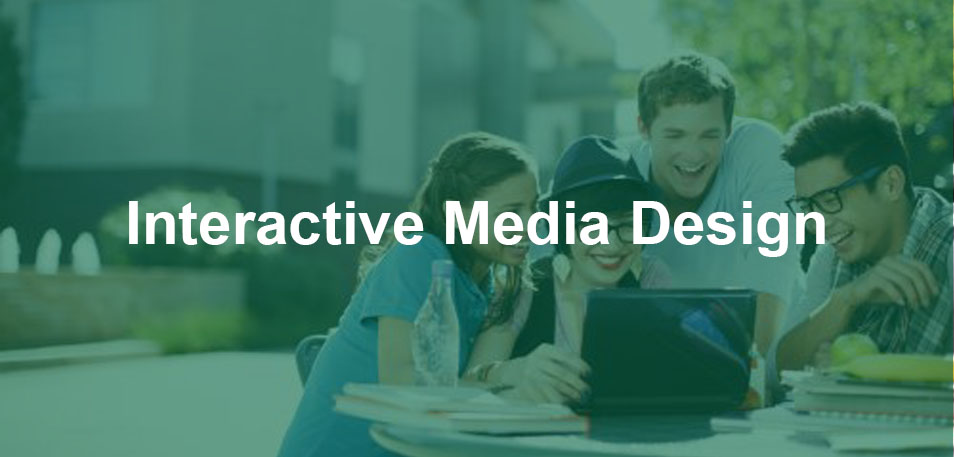
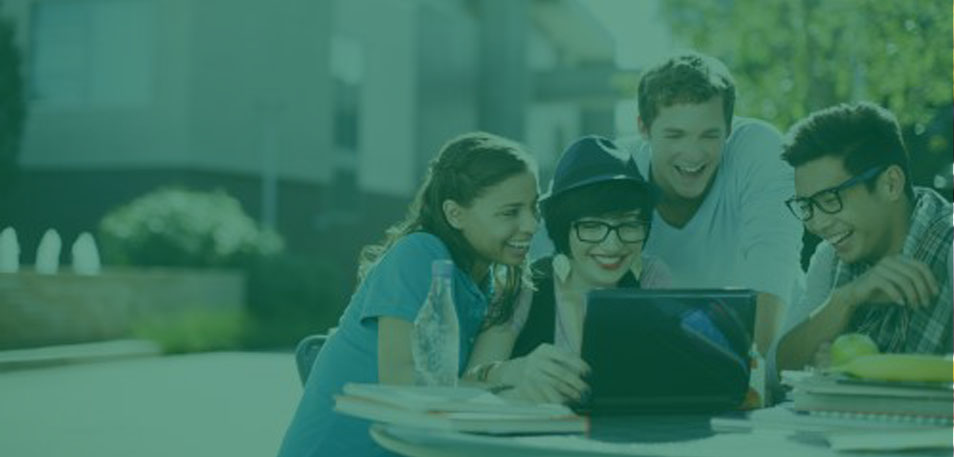
images

Changed region(s): [[0.1216, 0.4289, 0.8816, 0.5821]]

diff --git a/css/min/main.css b/css/min/main.css
@@ -1,1 +1,1 @@
-body{margin:0;padding:0}header{width:100%;margin:0}.hero-image img{width:100%;height:400px;margin:0 auto;text-align:center;overflow:visible;background-position:50%;background-size:cover;background-repeat:repeat;position:relative}.navbar{margin-bottom:0}.navbar.active{position:fixed;top:0;z-index:99;width:100%}nav{width:100%;text-align:center;background-color:#212721}nav ul{list-style-type:none;display:none;padding:0;margin:0}nav ul li{border-top:2px}nav li{margin-left:10px;margin-right:20px}nav .hammenu{display:inline-block;width:auto;padding:0}nav .hammenu span{padding:0;margin:0;background-color:rgba(33,39,33,.1)}nav a{display:block;width:100%;padding-top:22.5px;padding-bottom:22.5px;font-size:20px;color:#fff;-webkit-transition:.4s;transition:.4s;font-family:sans-serif}nav a.show{display:block;text-align:center;margin:0}nav a:hover:first-child{background-color:rgba(33,39,33,0)}nav a:hover{background-color:rgba(33,39,33,.5)}a{width:100%;text-decoration:none;color:#fff;font-size:1.2em;line-height:1.5em}.hero-image h1,.hero-image span{text-transform:uppercase;text-align:center;display:block}section>div,section>h2,section>p{padding:0 1em}li{line-height:1.8em}h1,span{margin:0;color:#fff}h1,h2,h3,h4,span{font-family:sans-serif}h2,h3,h4{color:#006341}h2{font-size:1.5em}h3{font-size:1.2em;font-weight:lighter}h4{font-size:1em;color:rgba(33,39,33,.8)}h5{font-size:.8em;font-family:sans-serif;padding-top:15px}.danbox,h5{color:#f0f0f0}.danbox{background-color:#212721;text-align:center;padding:1em;margin-bottom:50px}p{text-align:justify;line-height:1.8em}li,p,ul{border:2px;color:rgba(33,39,33,.8);text-decoration:none}a{color:blue;font-size:1em}.topbtn{background-color:rgba(0,0,0,.6);position:fixed;z-index:99999999;right:20px;bottom:20px;padding:10px 20px}.topbtn span{margin:0;color:#f0f0f0}.clearfix:after{content:"";clear:both;display:table}.ourprogram{width:24em;height:24em;border-radius:50%;margin-right:8em;float:right;overflow:hidden;margin-left:50px;margin-bottom:40px;display:none}.fa-chevron-down{display:block}.accordion-title{background-color:#006341;color:#f0f0f0;padding-top:20px;padding-bottom:20px;margin:0}.accordion-title span{float:right}.accordion-content{display:none}footer{width:100%;background-color:#212721;color:#f0f0f0;height:60px;text-align:center;margin-top:-1.3em;padding:0}.row{margin:0;padding:0}.our-professors{margin-top:4em}.image-wrapper{width:100%;height:30em;background-color:#006341;margin:0;padding:0;border:0;margin-top:-1.25em;text-align:center}.first,.third{margin-right:1em}.third{padding:0;border:0}.image-wrapper:last-child{margin-bottom:-50px}.circlebox{width:12em;height:12em;border-radius:50%;margin:3em auto;text-align:center}.professors{position:relative;overflow:hidden;z-index:-1;margin:0}.applinfo-image{display:none}p.professor-text.clearfix{padding:0 2em;float:right}.textbox{padding:0 2em}.img-1{display:none}@media screen and (min-width:800px){html{background-color:#fff}nav .hammenu{display:none}nav ul{width:auto;float:right;display:inline-block}nav ul li{float:left}nav a.show{display:inline-block;text-align:none;margin:0}.ourprogram{background-position:50%;background-size:contain;overflow:hidden}.accordion-content,.ourprogram{display:block}.fa-chevron-down{display:none!important}.img-1{display:block;width:20em;float:right;margin:2em}.image-wrapper{width:50%;float:left}.second{float:right}.first,.third{margin-right:1em}.third{padding:0;margin-right:2em;border:0}.applinfo-image{display:block;width:30%;height:40em;margin-left:2em;float:right}p.professor-text.clearfix{width:40%;padding-right:2em;float:right}.textbox{width:40%;padding-left:2em}}
+body{margin:0;padding:0}header{width:100%;margin:0}.hero-image img{width:100%;height:300px;margin:0 auto;text-align:center;overflow:visible;background-position:50%;background-size:cover;background-repeat:repeat;position:relative}.navbar{margin-bottom:0}.navbar.active{position:fixed;top:0;z-index:99;width:100%}nav{width:100%;text-align:center;background-color:#212721}nav ul{list-style-type:none;display:none;padding:0;margin:0}nav ul li{border-top:2px}nav li{margin-left:10px;margin-right:20px}nav .hammenu{display:inline-block;width:auto;padding:0}nav .hammenu span{padding:0;margin:0;background-color:rgba(33,39,33,.1)}nav a{display:block;width:100%;padding-top:22.5px;padding-bottom:22.5px;font-size:20px;color:#fff;-webkit-transition:.4s;transition:.4s;font-family:sans-serif}nav a.show{display:block;text-align:center;margin:0}nav a:hover:first-child{background-color:rgba(33,39,33,0)}nav a:hover{background-color:rgba(33,39,33,.5)}a{width:100%;text-decoration:none;color:#fff;font-size:1.2em;line-height:1.5em}.hero-image h1,.hero-image span{text-transform:uppercase;text-align:center;display:block}section>div,section>h2,section>p{padding:0 1em}li{line-height:1.8em}h1,span{margin:0;color:#fff}h1,h2,h3,h4,span{font-family:sans-serif}h2,h3,h4{color:#006341}h2{font-size:1.5em}h3{font-size:1.2em;font-weight:lighter}h4{font-size:1em;color:rgba(33,39,33,.8)}h5{font-size:.8em;font-family:sans-serif;padding-top:15px}.danbox,h5{color:#f0f0f0}.danbox{background-color:#212721;text-align:center;padding:1em;margin-bottom:50px;margin-top:-.5em}p{text-align:justify;line-height:1.8em}li,p,ul{border:2px;color:rgba(33,39,33,.8);text-decoration:none}a{color:blue;font-size:1em}.topbtn{background-color:rgba(0,0,0,.6);position:fixed;z-index:99999999;right:20px;bottom:20px;padding:10px 20px}.topbtn span{margin:0;color:#f0f0f0}.clearfix:after{content:"";clear:both;display:table}.ourprogram{width:24em;height:24em;border-radius:50%;margin-right:8em;float:right;overflow:hidden;margin-left:50px;margin-bottom:40px;display:none}.fa-chevron-down{display:block}.accordion-title{background-color:#006341;color:#f0f0f0;padding-top:20px;padding-bottom:20px;margin:0}.accordion-title span{float:right}.accordion-content{display:none}footer{width:100%;background-color:#212721;color:#f0f0f0;height:60px;text-align:center;margin-top:-1.3em;padding:0}.row{margin:0;padding:0}.our-professors{margin-top:4em}.image-wrapper{width:100%;height:30em;background-color:#006341;margin:0;padding:0;border:0;margin-top:-1.25em;text-align:center}.first,.third{margin-right:1em}.third{padding:0;border:0}.image-wrapper:last-child{margin-bottom:-50px}.circlebox{width:12em;height:12em;border-radius:50%;margin:3em auto;text-align:center}.professors{position:relative;overflow:hidden;z-index:-1;margin:0}.applinfo-image{display:none}p.professor-text.clearfix{padding:0 2em;float:right}.textbox{padding:0 2em}.img-1{display:none}@media screen and (min-width:800px){html{background-color:#fff}nav .hammenu{display:none}nav ul{width:auto;float:right;display:inline-block}nav ul li{float:left}nav a.show{display:inline-block;text-align:none;margin:0}.hero-image img{height:400px}.ourprogram{background-position:50%;background-size:contain;overflow:hidden}.accordion-content,.ourprogram{display:block}.fa-chevron-down{display:none!important}.img-1{display:block;width:20em;float:right;margin:2em}.image-wrapper{width:50%;float:left}.second{float:right}.first,.third{margin-right:1em}.third{padding:0;margin-right:2em;border:0}.applinfo-image{display:block;width:30%;height:40em;margin-left:2em;float:right}p.professor-text.clearfix{width:40%;padding-right:2em;float:right}.textbox{width:40%;padding-left:2em}}

diff --git a/css/main.css b/css/main.css
@@ -9,7 +9,7 @@ header {
 
 .hero-image img {
   width: 100%;
-  height: 400px;
+  height: 300px;
   margin: 0 auto;
   text-align: center;
   overflow: visible;
@@ -133,7 +133,8 @@ h5 {
   color: #F0F0F0;
   text-align: center;
   padding: 1em;
-  margin-bottom: 50px; }
+  margin-bottom: 50px;
+  margin-top: -0.5em; }
 
 /*PARAHGRAPH*/
 p {
@@ -277,6 +278,9 @@ p.professor-text.clearfix {
     display: inline-block;
     text-align: none;
     margin: 0; }
+  /*HEADER IMAGE*/
+  .hero-image img {
+    height: 400px; }
   /*CSS FOR HOMEPAGE (MOSTLY IMAGES)*/
   .ourprogram {
     display: block;

diff --git a/scss/main.scss b/scss/main.scss
@@ -9,7 +9,7 @@ margin: 0;
 }
 .hero-image img{
   width: 100%;
-  height: 400px;
+  height: 300px;
   margin: 0 auto;
   text-align: center;
   overflow:visible;
@@ -137,6 +137,7 @@ h5{
   text-align: center;
   padding: 1em;
   margin-bottom: 50px;
+  margin-top: -0.5em;
 }
 /*PARAHGRAPH*/
 p{
@@ -291,6 +292,10 @@ nav a.show {
     display: inline-block;
     text-align: none;
     margin: 0;
+}
+/*HEADER IMAGE*/
+.hero-image img{
+  height: 400px;
 }
 /*CSS FOR HOMEPAGE (MOSTLY IMAGES)*/
 

diff --git a/courses.html b/courses.html
@@ -28,7 +28,7 @@
     <div class="hero-image" id="HOME">
       <!--<h1>Interactive Multimedia Design</h1>
       <span>Courses</span>-->
-      <img src="images/4.jpg" alt="">
+      <img src="images/courses.jpg" alt="">
     </div>
   </header>
   <div class="danbox">WEB PRODUCTION</div>

diff --git a/index.html b/index.html
@@ -28,7 +28,7 @@
     <div class="hero-image" id="HOME">
       <!--<span>Algonquin College</span>
       <h1>Interactive Multimedia Design</h1>-->
-      <img src="images/4.jpg" alt="">
+      <img src="images/homepage.jpg" alt="">
     </div>
   </header>
   <!--HOMEPAGE-->

diff --git a/professors.html b/professors.html
@@ -26,7 +26,7 @@
       </ul>
     </nav>
     <div class="hero-image" id="HOME">
-      <img src="images/4.jpg" alt="">
+      <img src="images/professors.jpg" alt="">
     </div>
   </header>
   <article>
